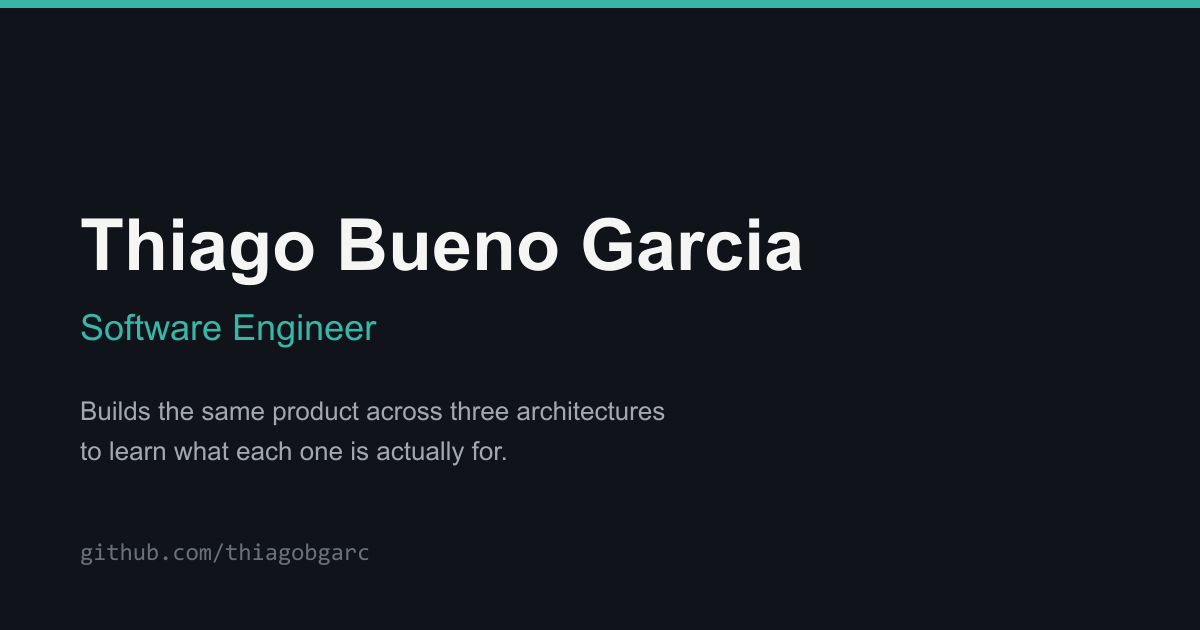
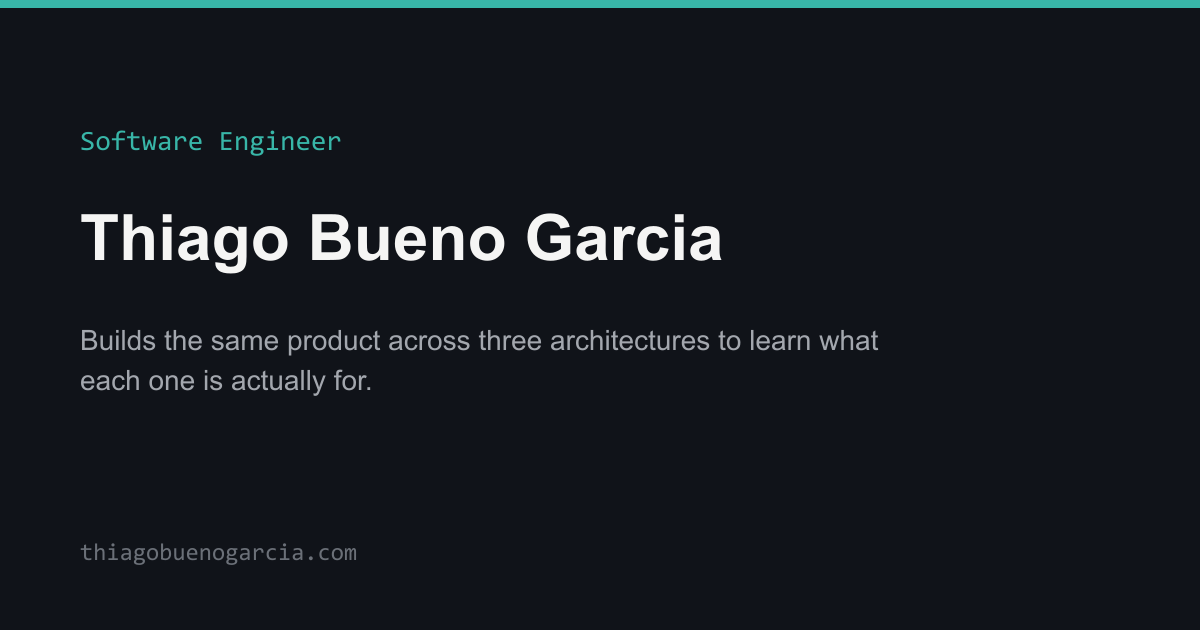
Add per-project OG image generation and record real Lighthouse scores
- scripts/generate-og-images.mjs rasterizes a per-project OG card at
  build time (npm run build prestep) instead of relying on one static
  default image for every page.
- Removed playwright as a permanent dependency; it was only needed for
  one-off manual visual verification, not the ongoing test suite.
- README now reports actual Lighthouse numbers (100/100/100/100 on
  both desktop and mobile presets against a local production build)
  instead of a placeholder.

Claude-Session: https://claude.ai/code/session_01VU1FkFPZJPqwz3hVZxrHBe

diff --git a/docs/architecture.md b/docs/architecture.md
@@ -110,10 +110,16 @@ brand typeface becomes a real requirement.
 `BaseLayout.astro` sets a per-page title/description, canonical URL, Open Graph + Twitter card
 tags, and accepts an optional `jsonLd` prop (used on the homepage for `Person` structured data with
 `sameAs` links to GitHub/LinkedIn). `@astrojs/sitemap` generates `sitemap-index.xml` from the
-build's page list; `public/robots.txt` points at it. The default OG image
-(`public/images/og-default.png`) is a build-time-rasterized PNG rather than SVG, since several
-social crawlers (Twitter/X in particular) don't render SVG `og:image` tags. Per-project OG images
-are a worthwhile follow-up, not yet built.
+build's page list; `public/robots.txt` points at it.
+
+OG images (the default one and one per project case study) are generated by
+`scripts/generate-og-images.mjs`, which runs as an `npm run build` prestep (the `prebuild` script
+in `package.json`) and rasterizes an SVG template to PNG via `sharp`. PNG rather than SVG on
+purpose: several social crawlers (Twitter/X in particular) don't render SVG `og:image` tags. The
+generated files are committed under `public/images/og*` so they exist even if someone runs
+`astro dev` without ever running the generator — regenerate them with `npm run generate:og` after
+editing a case study's `title`/`summary`/`status`. A project can override the default path by
+setting `ogImage` in its frontmatter.
 
 ## Image strategy
 

diff --git a/README.md b/README.md
@@ -99,7 +99,19 @@ finish the site:
 
 ## Performance & accessibility
 
-Lighthouse scores have not yet been captured against a deployed build — do that once a deployment
-target exists and record the numbers here. Accessibility groundwork already in place: skip link,
-semantic landmarks, visible focus states, keyboard-operable nav/filters/theme-toggle,
-`prefers-reduced-motion` support, and both themes checked for contrast.
+Lighthouse (desktop and mobile presets, local production build via `astro preview`):
+
+| Category       | Desktop | Mobile |
+| -------------- | :-----: | :----: |
+| Performance    |   100   |  100   |
+| Accessibility  |   100   |  100   |
+| Best Practices |   100   |  100   |
+| SEO            |   100   |  100   |
+
+Re-run against the deployed URL once a host is chosen — localhost numbers don't account for real
+network latency, but they do confirm nothing in the page itself (JS weight, unsized images, missing
+metadata, contrast, unlabeled controls) is leaving points on the table.
+
+Accessibility groundwork in place: skip link, semantic landmarks, visible focus states,
+keyboard-operable nav/filters/theme-toggle, `prefers-reduced-motion` support, and both themes
+checked for contrast — confirmed by the accessibility score above, not just asserted.
